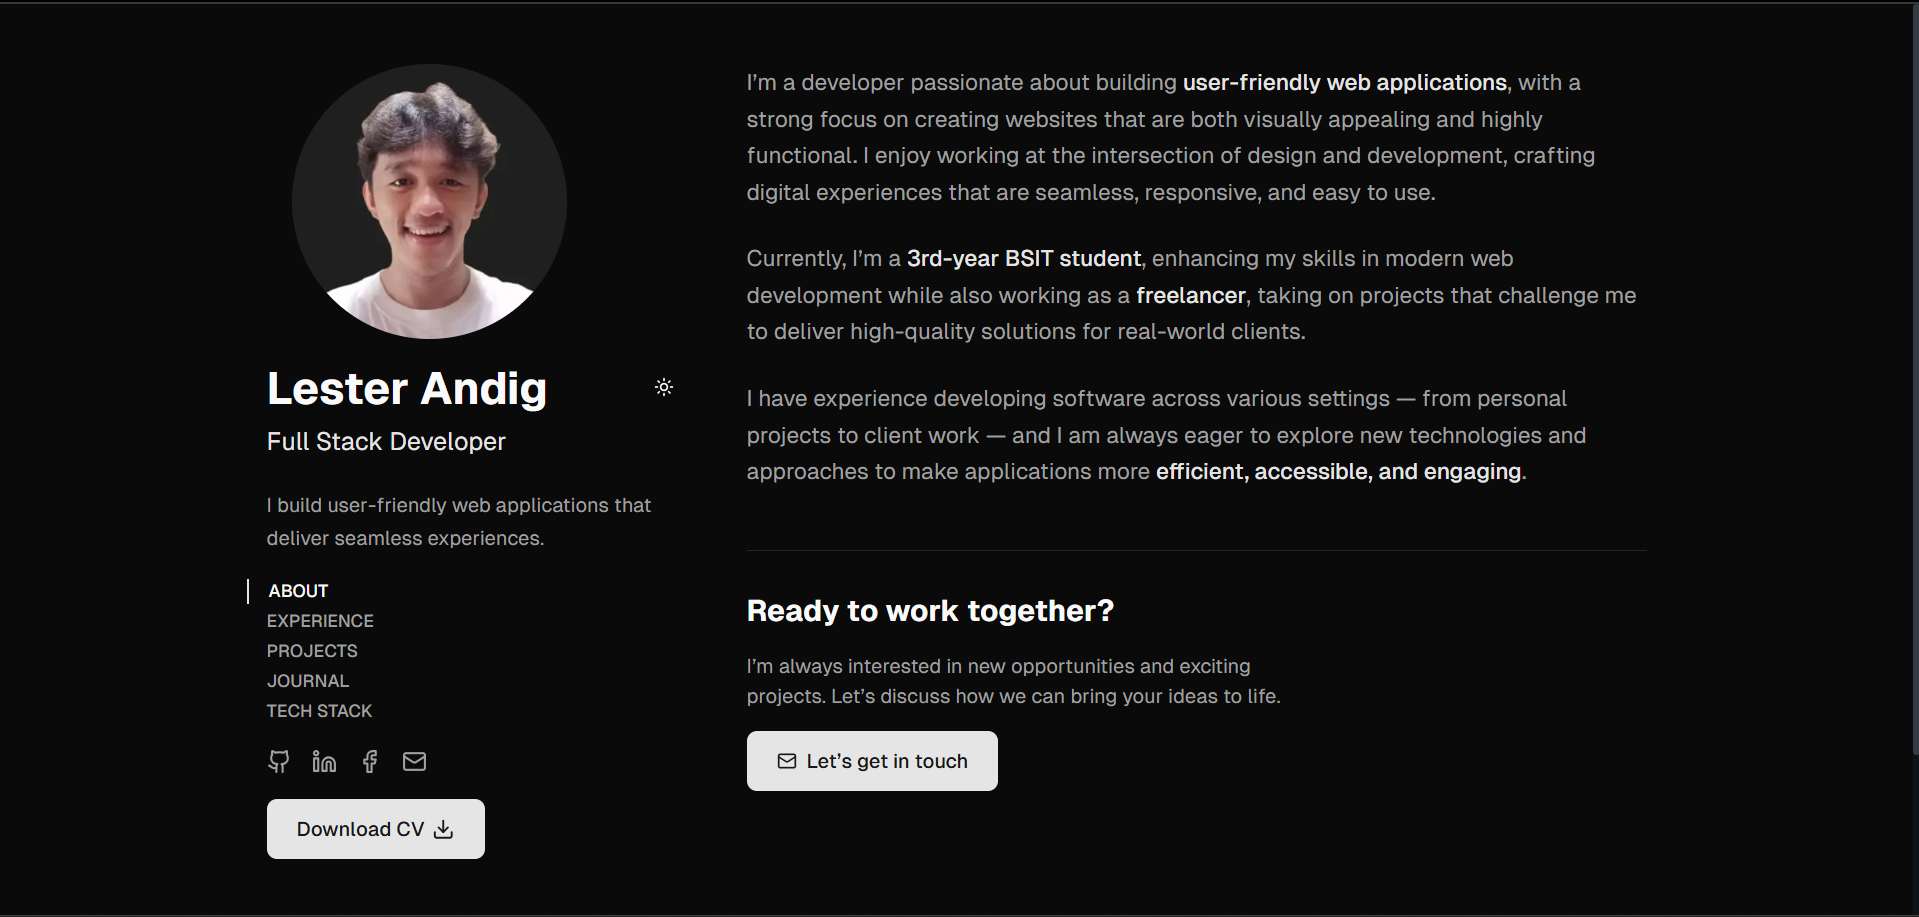
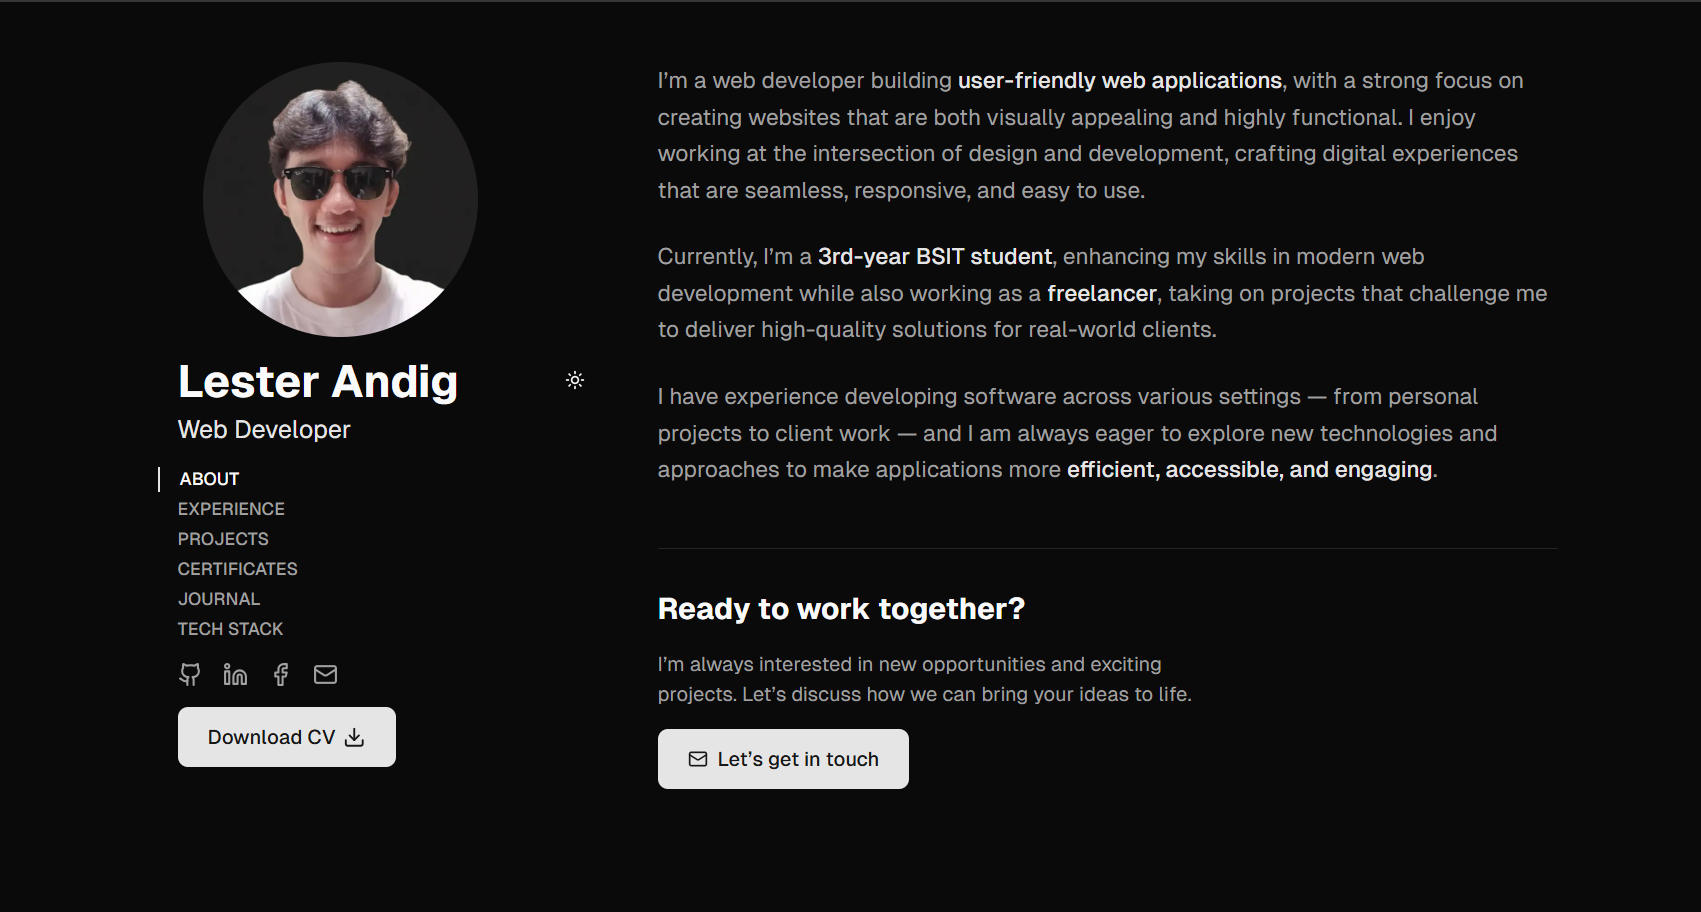
Refactor: pages and replace new portfolio project image

diff --git a/src/app/page.tsx b/src/app/page.tsx
@@ -13,7 +13,7 @@ export default function HomePage() {
       <div className="max-w-6xl mx-auto px-6 py-12">
         <div className="grid grid-cols-1 lg:grid-cols-12 gap-12">
           {/* Left Sidebar */}
-          <div className="lg:col-span-4 space-y-5">
+          <div className="lg:col-span-4 space-y-4">
               <ImagePreviewContent />
             <div>
               <div className="flex items-start justify-between mb-2">
@@ -23,9 +23,9 @@ export default function HomePage() {
                 </div>
                 <ThemeToggle />
               </div>
-              <p className="text-muted-foreground leading-relaxed">
+              {/* <p className="text-muted-foreground leading-relaxed">
                 I build user-friendly web applications that deliver seamless experiences.
-              </p>
+              </p> */}
             </div>
 
             <Navigation />
@@ -37,7 +37,7 @@ export default function HomePage() {
           <div className="lg:col-span-8 space-y-12 h-auto lg:h-screen">
             <section>
               <p className="text-lg text-muted-foreground leading-relaxed mb-6">
-                I&rsquo;m a developer passionate about building <span className="text-primary font-medium">user-friendly web applications</span>, with a strong focus on creating websites that are both visually appealing and highly functional. I enjoy working at the intersection of design and development, crafting digital experiences that are seamless, responsive, and easy to use.
+                I&rsquo;m a web developer building <span className="text-primary font-medium">user-friendly web applications</span>, with a strong focus on creating websites that are both visually appealing and highly functional. I enjoy working at the intersection of design and development, crafting digital experiences that are seamless, responsive, and easy to use.
               </p>
 
               <p className="text-lg text-muted-foreground leading-relaxed mb-6">

diff --git a/src/app/tech-stack/page.tsx b/src/app/tech-stack/page.tsx
@@ -13,7 +13,7 @@ export default function TechStackPage() {
       <div className="max-w-6xl mx-auto px-6 py-12">
         <div className="grid grid-cols-1 lg:grid-cols-12 gap-12">
           {/* Left Sidebar */}
-          <div className="lg:col-span-4 space-y-5">
+          <div className="lg:col-span-4 space-y-4">
             <ImagePreviewContent />
             <div>
               <div className="flex items-start justify-between mb-2">
@@ -25,10 +25,6 @@ export default function TechStackPage() {
                 </div>
                 <ThemeToggle />
               </div>
-              <p className="text-muted-foreground leading-relaxed">
-                I build user-friendly web applications that deliver seamless
-                experiences.
-              </p>
             </div>
 
             <Navigation />

diff --git a/src/app/certificates/page.tsx b/src/app/certificates/page.tsx
@@ -19,7 +19,7 @@ export default function Certificates() {
       <div className="max-w-6xl mx-auto px-6 py-12">
         <div className="grid grid-cols-1 lg:grid-cols-12 gap-12">
           {/* Left Sidebar */}
-          <div className="lg:col-span-4 space-y-5">
+          <div className="lg:col-span-4 space-y-4">
             <ImagePreviewContent />
             <div>
               <div className="flex items-start justify-between mb-2">
@@ -31,10 +31,6 @@ export default function Certificates() {
                 </div>
                 <ThemeToggle />
               </div>
-              <p className="text-muted-foreground leading-relaxed">
-                I build user-friendly web applications that deliver seamless
-                experiences.
-              </p>
             </div>
 
             <Navigation />

diff --git a/src/app/experience/page.tsx b/src/app/experience/page.tsx
@@ -14,7 +14,7 @@ export default function ExperiencePage() {
       <div className="max-w-6xl mx-auto px-6 py-12">
         <div className="grid grid-cols-1 lg:grid-cols-12 gap-12">
          {/* Left Sidebar */}
-         <div className="lg:col-span-4 space-y-5">
+         <div className="lg:col-span-4 space-y-4">
             <ImagePreviewContent/>
             <div>
               <div className="flex items-start justify-between mb-2">
@@ -24,9 +24,6 @@ export default function ExperiencePage() {
                 </div>
                 <ThemeToggle />
               </div>
-              <p className="text-muted-foreground leading-relaxed">
-                I build user-friendly web applications that deliver seamless experiences.
-              </p>
             </div>
 
             <Navigation />

diff --git a/src/app/projects/page.tsx b/src/app/projects/page.tsx
@@ -26,7 +26,7 @@ export default function ProjectsPage() {
       <div className="max-w-6xl mx-auto px-6 py-12">
         <div className="grid grid-cols-1 lg:grid-cols-12 gap-12">
           {/* Left Sidebar */}
-          <div className="lg:col-span-4 space-y-5">
+          <div className="lg:col-span-4 space-y-4">
             <ImagePreviewContent/>
             <div>
               <div className="flex items-start justify-between mb-2">
@@ -36,9 +36,6 @@ export default function ProjectsPage() {
                 </div>
                 <ThemeToggle />
               </div>
-              <p className="text-muted-foreground leading-relaxed">
-                I build user-friendly web applications that deliver seamless experiences.
-              </p>
             </div>
 
             <Navigation />

diff --git a/src/app/journal/page.tsx b/src/app/journal/page.tsx
@@ -30,7 +30,7 @@ export default function JournalPage() {
       <div className="max-w-6xl mx-auto px-6 py-12">
         <div className="grid grid-cols-1 lg:grid-cols-12 gap-12">
           {/* LEFT SIDEBAR */}
-          <div className="lg:col-span-4 space-y-5">
+          <div className="lg:col-span-4 space-y-4">
             <ImagePreviewContent />
 
             <div>
@@ -45,11 +45,6 @@ export default function JournalPage() {
                 </div>
                 <ThemeToggle />
               </div>
-
-              <p className="text-muted-foreground leading-relaxed">
-                I build user-friendly web applications that deliver seamless
-                experiences.
-              </p>
             </div>
 
             <Navigation />
